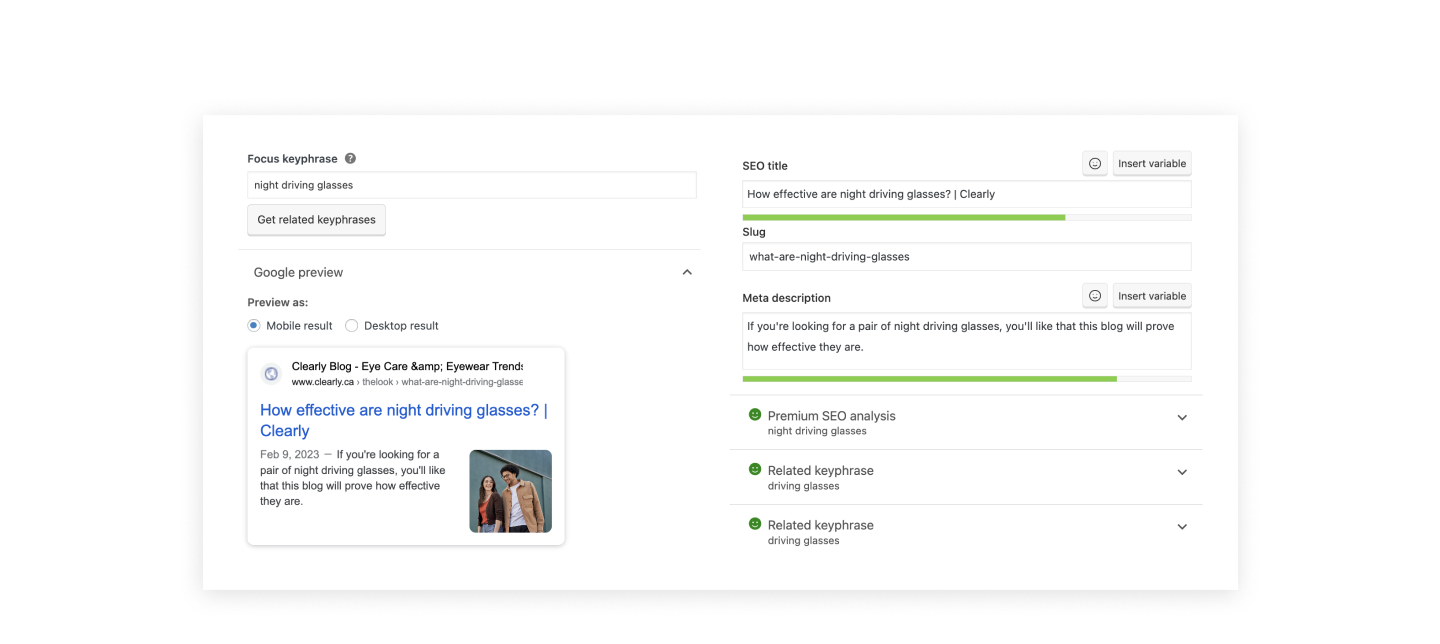
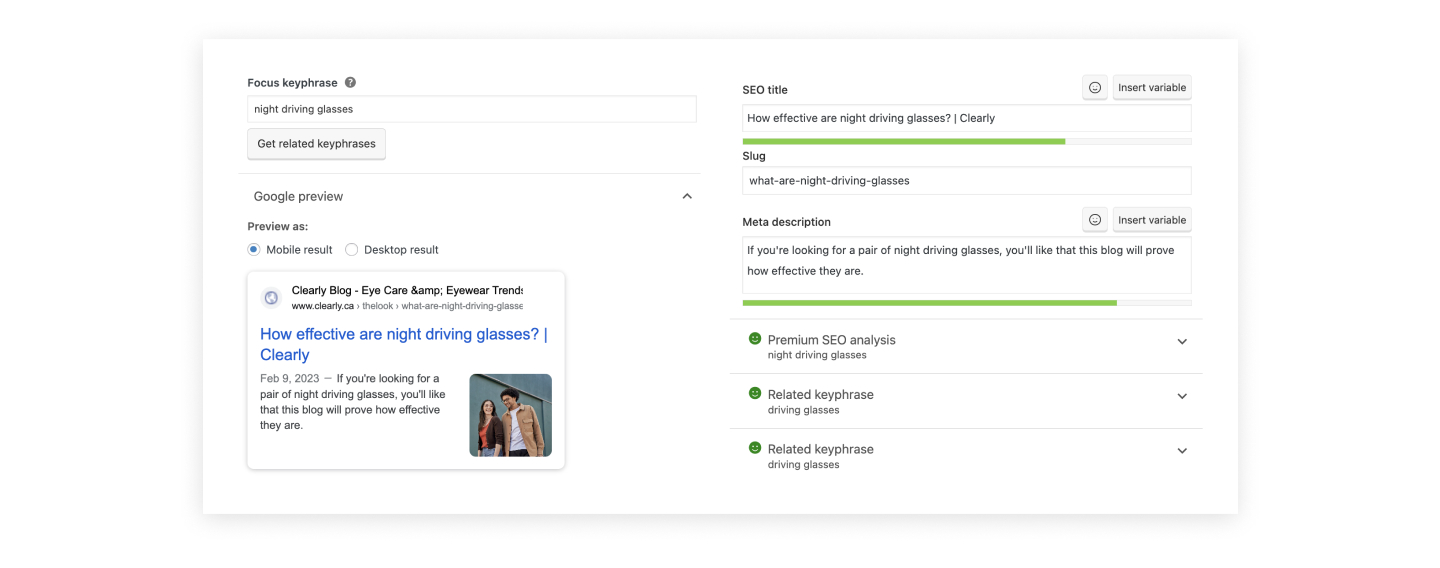
fixed paddings

diff --git a/p1_psoriasis_management.html b/p1_psoriasis_management.html
@@ -28,7 +28,7 @@
     <img class="hvr-photo sm-photo" src="Images/p1/hero-sm.jpg">
     <br><br>
     <h6 class="lg-photo">Optimised MyPsoriasis site with unique content</h6>
-    <h6 class="sm-photo">Landing page</h6>
+    <h6 class="sm-photo">Optimised MyPsoriasis site with unique content</h6>
   </div>
   <div class="section-container fadeIn delay-800">
     <div class="about-content">
@@ -43,13 +43,12 @@
     <div class="half-container">
       <img src="Images/p1/postits.jpg">
     </div>
-    <h6 class="sm-photo"><br><br>Team brainstorm<br><br><br></h6>
     <div class="half-container">
       <img src="Images/p1/sketch.jpg">
     </div>
-    <h6 class="sm-photo"><br><br>Optimised landing pages of MyPsoriasis site with unique content, keywords, links, and call to action.<br><br><br></h6>
+    <h6 class="sm-photo">Optimised landing pages of MyPsoriasis site with unique content, keywords, links, and call to action.</h6>
 
-    <h6 class="lg-photo"><br><br>Optimised landing pages of MyPsoriasis site with unique content, keywords, links, and call to action.</h6>
+    <h6 class="lg-photo">Optimised landing pages of MyPsoriasis site with unique content, keywords, links, and call to action.</h6>
   </div>
 
   <div class="section-container fadeIn delay-800">
@@ -152,11 +151,10 @@
     <div class="half-container">
       <img src="Images/p1/IA.jpg">
     </div>
-    <h6 class="sm-photo"><br><br>Wireframes and early design iterations<br><br><br></h6>
     <div class="half-container">
       <img src="Images/p1/moodboard.jpg">
     </div>
-    <h6 class="sm-photo"><br><br>Competitor landscape<br><br><br></h6>
+    <h6 class="sm-photo"><br>Psoriasis patient journey map (top), blog sitemap mockup (bottom)</h6>
 
     <h6 class="lg-photo"><br><br>Psoriasis patient journey map (left), blog sitemap mockup (right)</h6>
   </div>
@@ -186,7 +184,7 @@ Collaborated with SEO team to produce content that drive search primacy for MyPs
     <img class="hvr-photo lg-photo" src="Images/p1/second-nobg.jpg">
     <img class="hvr-photo sm-photo" src="Images/p1/second-nobg.jpg">
     
-        <h4 class="sm-photo" style="color: #515976;"><br><br>Published blog<br><br><br></h4>
+        <h4 class="sm-photo" style="color: #515976;"><br><br>Published blog</h4>
 
         <h4 class="lg-photo" style="color: #515976;"><br><br>Published blog</h4>
       
@@ -213,12 +211,10 @@ I created value-driven content that resonates with its audiences search behavior
     <div class="half-container">
       <img src="Images/p1/google_analytics1.jpg">
     </div>
-    <h6 class="sm-photo"><br><br>Audience overview - extracted from Google Analytics
-<br><br><br></h6>
     <div class="half-container">
       <img src="Images/p1/google_analytics2.jpg">
     </div>
-    <h6 class="sm-photo"><br><br>Ranked 3rd on Google<br><br><br></h6>
+    <h6 class="sm-photo"><br><br>Audience overview - extracted from Google Analytics (top), Ranked 3rd on Google (bottom)</h6>
 
     <h6 class="lg-photo"><br><br>Audience overview - extracted from Google Analytics (left), Ranked 3rd on Google (right)</h6>
   </div>

diff --git a/p6_blog-writing.html b/p6_blog-writing.html
@@ -169,19 +169,21 @@
     </div>
   </div>
 
+  
+
   <div class="section-container project-image fadeIn delay-800">
     <div class="container">
       <img src="Images/p6/Yoast_SEO.jpg">
     </div>
-    <h6 class="sm-photo"><br>Used Yoast SEO, a content management plugin for WordPress, to optimize title tag and meta description</h6>
+    <h6 class="sm-photo">Used Yoast SEO, a content management plugin for WordPress, to optimize title tag and meta description</h6>
 
-    <h6 class="lg-photo"><br>Used Yoast SEO, a content management plugin for WordPress, to optimize title tag and meta description</h6>
+    <h6 class="lg-photo">Used Yoast SEO, a content management plugin for WordPress, to optimize title tag and meta description</h6>
   </div>
 
- <br><br><br>
 
 
 
+<br><br><br><br>
 
 
   <div class="section-container project-image fadeIn delay-800">

diff --git a/styles.css b/styles.css
@@ -238,7 +238,7 @@ li {
   //max-width: 1400px;
 }
 .about-content {
-  padding: 40px 20px;
+  padding: 90px 20px;
   max-width: 1050px;
   margin: 0 auto;
 }
